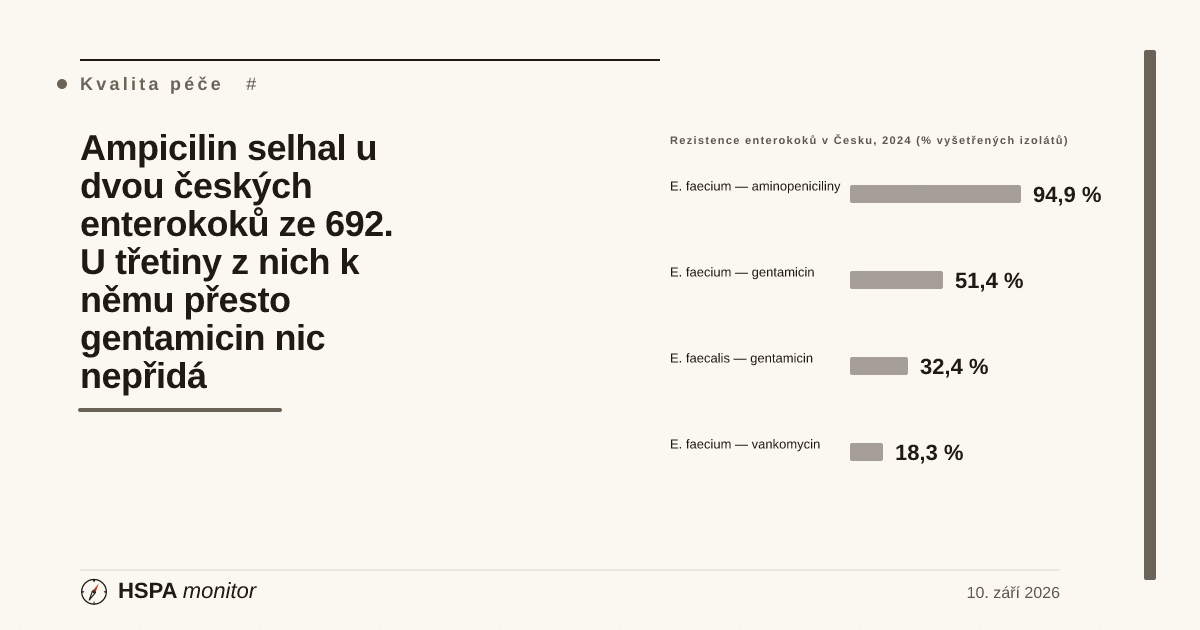
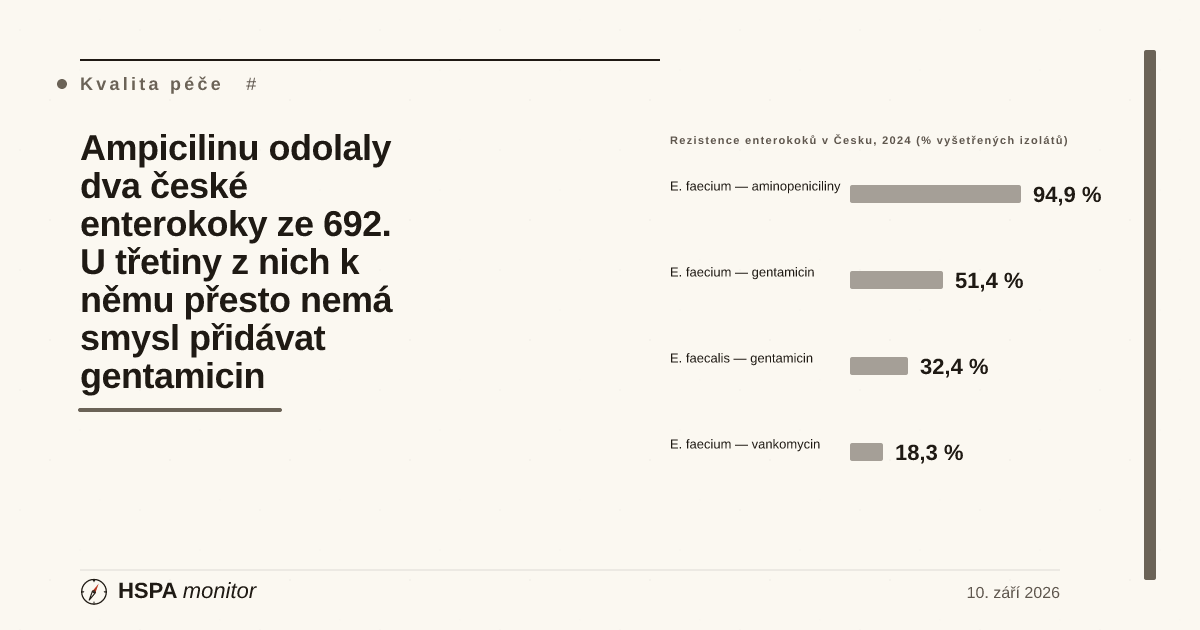
fix(clanky): opravy po recenzi Codexu — in vitro vs. klinický endpoint, rozsah evidence, meze odvozování (#1187)
CODEX REVIEW (PR #1187), pět nálezů (3× P1, 2× P2), všechny přijaty.

(P1) EARS-Net zaznamenává výsledky vyšetření citlivosti in vitro, ne to, čím
byl pacient léčen a s jakým výsledkem. Titulek „Ampicilin selhal u dvou českých
enterokoků ze 692“ podával rezistentní izoláty jako selhání léčby, a měnil tím
sledovaný endpoint. Přepsán na „Ampicilinu odolaly dva české enterokoky ze
692…“; táž záměna odstraněna z counteru, z tabulky a z odstavce o dvou druzích.
Slovo „selhání“ zůstává jen tam, kde je skutečným endpointem citované klinické
studie.

(P1) Sekce o náhradě gentamicinu ceftriaxonem platila jako odpověď na jakýkoli
pozitivní screening, ačkoli všechny tři citované práce se týkají výhradně
infekční endokarditidy E. faecalis, zatímco surveillance sbírá všechny invazivní
izoláty z krve a mozkomíšního moku. Doplněn úvodní odstavec, který rozsah
evidence výslovně omezuje a říká, že pozitivní screening sám o sobě indikací
k záměně není; nadpis změněn na „Co o náhradě gentamicinu ví literatura — a u
jaké diagnózy“.

(P1) Z horní meze 675/692 nelze usuzovat na české pokrytí testováním —
jmenovatel může být větší a pokrytí i pod unijními 49,9 %. Ověřeno, že AER 2024
počty HLÁŠENÝCH izolátů po zemích neuvádí (rozpad je jen v samostatných Country
summaries; tabulky 10–16 jsou souhrny za EU/EHP), takže se údaj dohledat nedá.
Tvrzení o pilnosti českých laboratoří i formulace „české číslo stojí skoro na
všech izolátech“ odstraněna a nahrazena konstatováním, že pokrytí určit nelze.
[…]

Changed region(s): [[0.0617, 0.4524, 0.3392, 0.6333], [0.0925, 0.2111, 0.3392, 0.3921]]

diff --git a/05_M1_Starter/clanek-enterokoky-gentamicin-rezistence.html b/05_M1_Starter/clanek-enterokoky-gentamicin-rezistence.html
@@ -3,12 +3,12 @@
 <head>
 <meta charset="UTF-8">
 <meta name="viewport" content="width=device-width, initial-scale=1.0">
-<title>Ampicilin selhal u dvou českých enterokoků ze 692. U třetiny z nich k němu přesto gentamicin nic nepřidá · HSPA Monitor</title>
+<title>Ampicilinu odolaly dva české enterokoky ze 692. U třetiny z nich k němu přesto nemá smysl přidávat gentamicin · HSPA Monitor</title>
 <meta name="description" content="Vysoká rezistence ke gentamicinu neměří účinnost léku — je to screeningový test, který podle EUCAST říká, jestli se aminoglykosid spojí s ampicilinem do synergie. V Česku vyšel pozitivně u 219 z 675 invazivních izolátů Enterococcus faecalis (32,4 %, ECDC EARS-Net 2024) proti unijnímu průměru 22,6 %.">
 <meta name="robots" content="noindex, follow">
 <meta property="og:type" content="article">
-<meta property="og:title" content="Ampicilin selhal u dvou českých enterokoků ze 692. U třetiny z nich k němu přesto gentamicin nic nepřidá">
-<meta property="og:description" content="Vysoká rezistence ke gentamicinu je screeningový test na synergii, ne údaj o účinnosti léku. V Česku 32,4 % u E. faecalis proti unijnímu průměru 22,6 % — a odstup se za pět let rozevřel z 1,2 na 9,8 bodu.">
+<meta property="og:title" content="Ampicilinu odolaly dva české enterokoky ze 692. U třetiny z nich k němu přesto nemá smysl přidávat gentamicin">
+<meta property="og:description" content="Vysoká rezistence ke gentamicinu je screeningový test na synergii, ne údaj o účinnosti léku. V Česku 32,4 % u E. faecalis proti unijnímu průměru 22,6 % — evropský průměr přitom významně klesá, česká řada kolísá bez směru.">
 <meta property="og:locale" content="cs_CZ">
 <meta property="article:published_time" content="2026-09-10">
 <meta property="article:section" content="Kvalita péče">
@@ -22,6 +22,7 @@
     primary_sources_count: 8
     visual_elements_count: 6
     audit_pass: "2026-09-10 nezávislý průchod (fáze 5). Všech 48 číselných tvrzení dohledáno zpět k primárnímu zdroji: šest českých podílů proti čitateli i jmenovateli z ECDC Atlas, deset hodnot obou pětiletých řad, pět rozdílových hodnot přepočítáno, unijní hodnoty a rozpětí zemí proti tab. 9b, hodnoty z evidence proti abstraktům ověřeným v PubMed. Externí odkazy: 5 z 7 vrací HTTP 200; dva DOI odkazy na Clinical Infectious Diseases (10.1093/cid/cit052 a 10.1093/cid/ciae379) se korektně přesměrují (HTTP 302), ale cílový academic.oup.com odpovídá strojovému dotazu 403 — nejde o mrtvý odkaz, nýbrž o blokaci robotů, a odkazy byly proto v seznamu zdrojů přesměrovány na permalinky PubMed (DOI zůstává v citaci). Opraveno 5 nálezů: (1) tvrzení 'vyšetřovalo nejméně 97,5 %' mělo obrácený směr — 675/692 je HORNÍ odhad podílu vyšetřených, protože Atlas nevede počet hlášených izolátů, přeformulováno včetně vysvětlení, proč to není přesná obdoba unijních 49,9 %; (2) věta 'rozdíl u gentamicinu je zčásti rozdíl v pilnosti laboratoří' tvrdila směr zkreslení, který z dat neplyne — nahrazena explicitním konstatováním, že směr určit nelze; (3) tvrzení, že WHO nevede E. faecalis na seznamu prioritních patogenů, bylo neověřitelné tvrzení o absenci — nahrazeno doslovnou citací věty o E. faecium z AER 2024 a konstatováním, že u E. faecalis obdobná věta ve zprávě není; (4) v leadu byla nedoložená klinická generalizace o nejčastějších zdrojích enterokokové bakteriémie — odstraněna a nahrazena doslovnou citací AER 2024 o vnitřní rezistenci enterokoků; (5) mechanistické vysvětlení synergie ('naruší buněčnou stěnu a aminoglykosid se dostane dovnitř') nebylo doloženo primárním zdrojem — přepsáno na podmínku, kterou uvádí sama EUCAST, včetně upozornění, že EUCAST mluví o 'likely', ne o jistotě. Zkontrolováno, že čtyři ze šesti enterokokových indikátorů byly před tímto článkem skutečně sirotci (linked_indicators napříč 285 články)."
+    codex_2026-09-10: "Recenze Codexu k PR #1187, pět nálezů (3× P1, 2× P2), VŠECHNY PŘIJATY a opraveny. (P1) EARS-Net zaznamenává citlivost in vitro, ne klinický výsledek — titulek 'Ampicilin selhal u dvou enterokoků' podával rezistentní izoláty jako selhání léčby a měnil tím sledovaný endpoint. Titulek přepsán na 'Ampicilinu odolaly dva české enterokoky ze 692…' a stejná záměna odstraněna i v counteru, v tabulce a v odstavci o dvou druzích; slovo 'selhání' zůstává jen tam, kde je skutečným endpointem citované klinické studie. (P1) Sekce o náhradě gentamicinu ceftriaxonem platila jako odpověď na jakýkoli pozitivní screening, ačkoli všechny tři citované práce se týkají výhradně infekční endokarditidy E. faecalis, zatímco surveillance sbírá všechny invazivní izoláty. Doplněn úvodní odstavec, který rozsah evidence výslovně omezuje a říká, že pozitivní screening sám o sobě indikací k záměně není; nadpis sekce změněn na 'Co o náhradě gentamicinu ví literatura — a u jaké diagnózy'. (P1) Z horní meze 675/692 nelze usuzovat na české pokrytí testováním — jmenovatel může být větší a pokrytí i pod unijními 49,9 %. Ověřeno, že AER 2024 počty HLÁŠENÝCH izolátů po zemích neuvádí (rozpad je jen v samostatných Country summaries, tabulky 10–16 jsou souhrny za EU/EHP), takže se údaj dohledat nedá. Tvrzení o pilnosti českých laboratoří i formulace 'české číslo stojí skoro na všech izolátech' odstraněna a nahrazena explicitním konstatováním, že české pokrytí určit nelze. (P2) Vyloučení unijní hodnoty z intervalu spolehlivosti kolem českého podílu za rok 2024 dokládá jen jednoletý rozdíl, ne změnu v čase; rozdílová řada navíc kolísá (1,2 · 9,6 · 5,5 · 2,1 · 9,8). Tvrzení o rozevírání řad odstraněno z titulku sekce, z decku, z og:description i z těla článku a nahrazeno novým caveat callloutem, který vysvětluje, proč se srovnání krajních let na trend nedá použít. (P2) Věta o tom, že nižší frekvence hemokultur přivádí do vzorku pacienty s 'z principu vyšší' rezistencí, přisuzovala výběrovému zkreslení směr, který z té statistiky neplyne — přepsáno na nejistotu bez směru. Souhrnná poznámka pod zdroji rozšířena o všech pět bodů."
     notes: "Vytvořeno 10. 9. 2026 z evergreen backlogu (položka enterokoky-gentamicin-rezistence, priorita 18) — kadenční pojistka vynutila EVERGREEN-WRITE (3 dny od posledního ARTICLE/EVERGREEN-WRITE). Centrální KPI: vysoká rezistence E. faecalis ke gentamicinu 32,4 % (219/675), ČR 2024, ECDC Atlas measureId 1146465/1146466/1146467, geoCode CZ, staženo 10. 9. 2026. Bench: populačně vážený průměr EU/EHP 22,6 % (n=18 260), ECDC AER 2024 tab. 9b + doslovná věta v próze kapitoly E. faecalis. Všech šest measure ID nezávisle ověřeno proti metadatovému endpointu GetIndicatorMeasuresForHealthTopicAndDataset (152 measures) a všech šest podílů zkontrolováno proti čitateli a jmenovateli na plnou přesnost. Mechanismus doložen DOSLOVA z EUCAST Breakpoint tables v. 16.1 (platnost od 24. 6. 2026), kapitola Enterococcus spp., pozn. 1, 2/A a 3/B — ne parafrází guideline. Evidence o náhradě gentamicinu: Fernández-Hidalgo 2013 (PMID 23392394), Prosty 2024 metaanalýza (PMID 39041860), Mirna 2021 metaanalýza (PMID 34751788), všechny ověřeny v PubMed 10. 9. 2026 včetně typu publikace; Consensus použit jako vyhledávač, převaha evidence souhlasí. Datový rámec: discovery/data-frame-enterokoky-gentamicin-rezistence.md."
     limits: "SEBEOMEZENÍ, která nesmí zmizet při revizi: (1) Z doporučených postupů ESC 2023 (PMID 37622656) se NECITUJE NIC — plný text vrací z tohoto prostředí HTTP 403 a abstrakt v PubMed není; charakteristika 'rovnocenné doporučení třídy IB' je označena jako citace z abstraktu metaanalýzy Mirna 2021 a týká se doporučení platných v roce 2021. (2) Pro E. faecium/gentamicin a pro E. faecalis/vankomycin a /aminopeniciliny ECDC v AER 2024 unijní průměr NEPUBLIKUJE — nedopočítávat. (3) Za Česko se NEUVÁDÍ podíl izolátů rezistentních ke všem třem skupinám naráz; ECDC ho publikuje jen za EU/EHP (tab. 16) a z dílčích podílů se počítat nesmí. (4) Trend za ČR se netvrdí — česká řada kolísá a ECDC pro jednotlivé země trend u téhle metriky v AER nepublikuje. (5) U VRE se NETVRDÍ, že je Česko nad evropským průměrem: 95% CI 14,6–22,0 % benchmark 16,5 % zahrnuje. (6) Článek nedává doporučení léčby."
 -->
@@ -57,9 +58,9 @@
         <span class="article-tag">Kvalita péče</span>
         <span class="article-tag article-tag-muted">antibiotická rezistence · enterokoky · endokarditida · EARS-Net · EUCAST</span>
       </div>
-      <h1 class="article-title">Ampicilin selhal u dvou českých enterokoků ze 692. U třetiny z nich k němu přesto gentamicin nic nepřidá</h1>
+      <h1 class="article-title">Ampicilinu odolaly dva české enterokoky ze 692. U třetiny z nich k němu přesto nemá smysl přidávat gentamicin</h1>
       <p class="article-deck">
-        „Vysoká rezistence ke gentamicinu“ nevypovídá o tom, jestli gentamicin zabírá — enterokoky jsou na aminoglykosidy odolné vždycky. Je to <strong>screeningový test</strong>, který podle metodiky EUCAST říká jedinou věc: jestli se aminoglykosid spojí s penicilinovým antibiotikem do <em>synergie</em>, nebo ne. V Česku vyšel za rok 2024 pozitivně u <strong>219 z 675</strong> invazivních izolátů <em>Enterococcus faecalis</em>, tedy u <strong>32,4 %</strong>, zatímco unijní populačně vážený průměr je <strong>22,6 %</strong> (ECDC EARS-Net). Evropské číslo přitom od roku 2020 statisticky významně klesá a české nikam nesměřuje — odstup se za pět let rozevřel z 1,2 na 9,8 bodu. Druhý enterokok, <em>E. faecium</em>, vypadá v datech přesně opačně.
+        „Vysoká rezistence ke gentamicinu“ nevypovídá o tom, jestli gentamicin zabírá — enterokoky jsou na aminoglykosidy odolné vždycky. Je to <strong>screeningový test</strong>, který podle metodiky EUCAST říká jedinou věc: jestli se aminoglykosid spojí s penicilinovým antibiotikem do <em>synergie</em>, nebo ne. V Česku vyšel za rok 2024 pozitivně u <strong>219 z 675</strong> invazivních izolátů <em>Enterococcus faecalis</em>, tedy u <strong>32,4 %</strong>, zatímco unijní populačně vážený průměr je <strong>22,6 %</strong> (ECDC EARS-Net). Evropské číslo přitom od roku 2020 statisticky významně klesá, česká řada kolísá bez zjevného směru a v roce 2024 leží 9,8 bodu nad unijním průměrem. Druhý enterokok, <em>E. faecium</em>, vypadá v datech přesně opačně.
       </p>
       <div class="article-meta">
         <span class="article-meta-date">10. září 2026</span>
@@ -92,7 +93,7 @@
           <div class="av-counter-block av-counter-block-good">
             <span class="av-counter" data-value="0.3" data-decimals="1" data-suffix=" %">0,3 %</span>
             <span class="av-counter-label"><em>E. faecalis</em> — rezistence k aminopenicilinům</span>
-            <span class="av-counter-foot">selhaly u 2 izolátů ze 692; samotný ampicilin tedy funguje skoro vždy</span>
+            <span class="av-counter-foot">rezistentní byly 2 izoláty ze 692; drtivá většina zůstává in vitro citlivá</span>
           </div>
           <div class="av-counter-block av-counter-block-bad">
             <span class="av-counter" data-value="94.9" data-decimals="1" data-suffix=" %">94,9 %</span>
@@ -142,7 +143,7 @@
               <tr><td>vankomycin</td><td class="av-num">0,3 %</td><td class="av-num">2 / 692</td><td>záloha zůstává otevřená</td></tr>
               <tr class="av-row-highlight"><td>gentamicin (vysoká hladina)</td><td class="av-num"><strong>32,4 %</strong></td><td class="av-num">219 / 675</td><td>u třetiny izolátů nebude kombinace synergická</td></tr>
               <tr><th scope="row" rowspan="3"><em>E. faecium</em></th><td>aminopeniciliny</td><td class="av-num">94,9 %</td><td class="av-num">394 / 415</td><td>ampicilin prakticky nepoužitelný</td></tr>
-              <tr><td>vankomycin (VRE)</td><td class="av-num">18,3 %</td><td class="av-num">76 / 415</td><td>záloha selhává u každého pátého izolátu</td></tr>
+              <tr><td>vankomycin (VRE)</td><td class="av-num">18,3 %</td><td class="av-num">76 / 415</td><td>záloha je neúčinná u téměř každého pátého izolátu</td></tr>
               <tr><td>gentamicin (vysoká hladina)</td><td class="av-num">51,4 %</td><td class="av-num">208 / 405</td><td>u poloviny izolátů kombinace nepomůže</td></tr>
             </tbody>
           </table>
@@ -164,7 +165,7 @@
       </figure>
 
       <p>
-        U <em>E. faecalis</em> tedy platí, že jádro léčby stojí pevně: ampicilin selhal u dvou izolátů ze 692 a vankomycin rovněž u dvou. Co vypadlo, je <strong>posila</strong>. U <em>E. faecium</em> je to naopak — vypadlo jádro. Ampicilin je u něj v Česku prakticky nepoužitelný (94,9 %), takže se léčba přesouvá na vankomycin, a ten selhává u 18,3 % izolátů. Právě proto ECDC ve výroční zprávě u <em>E. faecium</em> připomíná, že „<em>WHO has listed vancomycin-resistant E. faecium as a pathogen of high priority in the global bacterial pathogen priority list</em>“ — u <em>E. faecalis</em> žádnou takovou větu neuvádí.
+        U <em>E. faecalis</em> tedy platí, že jádro léčby stojí pevně: aminopenicilinům odolaly dva izoláty ze 692 a vankomycinu rovněž dva. Co vypadlo, je <strong>posila</strong>. U <em>E. faecium</em> je to naopak — vypadlo jádro. Aminopenicilinům odolává 94,9 % izolátů, takže na ně jako na lék volby spoléhat nelze a hlavní zálohou zůstává vankomycin — a ten je neúčinný u 18,3 % izolátů. Právě proto ECDC ve výroční zprávě u <em>E. faecium</em> připomíná, že „<em>WHO has listed vancomycin-resistant E. faecium as a pathogen of high priority in the global bacterial pathogen priority list</em>“ — u <em>E. faecalis</em> žádnou takovou větu neuvádí.
       </p>
 
       <aside class="av-aside">
@@ -208,15 +209,22 @@
       </figure>
 
       <p>
-        Z těch dvou řádků plyne jedna věc jasně a jedna vůbec ne. Jasná je ta první: <strong>u <em>E. faecalis</em> se česká a evropská řada rozevírají.</strong> Evropský průměr klesl mezi lety 2020 a 2024 z 29,0 na 22,6 %, tedy o 6,4 bodu, a ECDC u něj potvrzuje statisticky významný klesající trend. Česká hodnota ve stejném období nikam nesměřuje — kolísá mezi 26,4 a 38,5 % — takže odstup narostl z 1,2 bodu v roce 2020 na 9,8 bodu v roce 2024. Není to jen náhodné rozházení: devadesátipětiprocentní interval spolehlivosti kolem českých 32,4 % sahá od 28,9 do 36,0 % a evropskou hodnotu 22,6 % nezahrnuje.
+        Z těch dvou řádků plyne jedna věc jasně a jedna vůbec ne. Jasné je <strong>postavení Česka v roce 2024</strong>: u <em>E. faecalis</em> leží česká hodnota 9,8 bodu nad unijním průměrem a devadesátipětiprocentní interval spolehlivosti kolem českých 32,4 % (28,9 až 36,0 %) evropskou hodnotu 22,6 % nezahrnuje. Jasné je i to, že <strong>evropský průměr klesá</strong> — z 29,0 na 22,6 % mezi lety 2020 a 2024, se statisticky významným trendem, který potvrzuje ECDC. A jasné je, že <strong>česká řada nikam nesměřuje</strong>: kolísá mezi 26,4 a 38,5 %.
       </p>
+      <div class="article-callout-caveat" role="note">
+        <strong>Co z toho neplyne: že se ty dvě řady rozevírají.</strong>
+        Bylo by lákavé postavit vedle sebe rozdíl 1,2 bodu z roku 2020 a 9,8 bodu z roku 2024 a mluvit o rozevírání nůžek. Rozdílový řádek v tabulce ale ukazuje, že mezitím byl 9,6 bodu (2021), 5,5 (2022) a 2,1 (2023) — kolísá stejně jako česká řada sama. Srovnání dvou krajních let takovou houpačku nepřekoná a interval spolehlivosti kolem hodnoty za rok 2024 <em>neříká nic o změně v čase</em>: dokládá jen jednoletý rozdíl. Tvrzení o trendu by vyžadovalo test na celé řadě, který ECDC za jednotlivé země nepublikuje a který redakce sama nedělá. <strong>Článek proto o rozevírání nemluví</strong> — jen o tom, že evropský průměr prokazatelně klesá, zatímco česká hodnota za rok 2024 leží nad ním.
+      </div>
       <p>
         Nejasné je naopak všechno kolem <strong>VRE</strong>. České číslo 18,3 % je sice nad unijním průměrem 16,5 %, jenže interval spolehlivosti kolem něj sahá od 14,6 do 22,0 % a evropskou hodnotu <em>zahrnuje</em>. Statisticky vzato tedy Česko od průměru odlišit nelze a tenhle článek netvrdí, že je na tom hůř. Je to zároveň důvod, proč mají všech šest enterokokových indikátorů v datovém kontraktu HSPA Monitoru signál <em>neutrální</em> a prázdný benchmark: při jmenovatelích v řádu stovek izolátů by barevný semafor tvrdil víc, než data unesou.
       </p>
 
-      <h3>Co dělat, když synergie chybí</h3>
+      <h3>Co o náhradě gentamicinu ví literatura — a u jaké diagnózy</h3>
       <p>
-        Tady se dostáváme k otázce, kvůli které se ten test vůbec provádí. Pokud u <em>E. faecalis</em> vyjde gentamicinový screening pozitivně, co se dá dělat místo toho? Odpověď je v recenzované literatuře poměrně jednotná a je stará přes deset let: nahradit aminoglykosid <strong>druhým betalaktamem</strong>, konkrétně ceftriaxonem.
+        Tady se dostáváme k otázce, kvůli které se ten test vůbec provádí. Nejdřív ale nutné vymezení, bez kterého by následující odstavce byly zavádějící: <strong>publikovaná evidence, kterou tenhle článek cituje, se týká výhradně infekční endokarditidy způsobené <em>E. faecalis</em></strong>. Surveillance přitom sbírá všechny invazivní izoláty z krve a mozkomíšního moku, tedy i katétrové sepse, infekce po břišních operacích a další stavy, kde se kombinační léčba řídí jinými úvahami a kde srovnávací studie tohoto typu nejsou. Pozitivní screening u izolátu <strong>není</strong> sám o sobě indikací k záměně gentamicinu za ceftriaxon; co následuje, platí pro endokarditidu, ne pro každý pozitivní výsledek.
+      </p>
+      <p>
+        Pro tu diagnózu je odpověď v recenzované literatuře poměrně jednotná a stará přes deset let: nahradit aminoglykosid <strong>druhým betalaktamem</strong>, konkrétně ceftriaxonem.
       </p>
       <p>
         Podle záznamů v PubMed publikovala multicentrická kohorta ze sedmnácti španělských a jedné italské nemocnice (<em>Fernández-Hidalgo N. et al.</em>, <em>Clinical Infectious Diseases</em>, 2013) srovnání 159 pacientů léčených ampicilinem s ceftriaxonem a 87 pacientů léčených ampicilinem s gentamicinem. Mezi skupinami nebyl rozdíl v úmrtnosti během léčby (22 % vs 21 %) ani po třech měsících (8 % vs 7 %), v selhání léčby (1 % vs 2 %) ani v relapsech (3 % vs 4 %). Rozdíl byl jinde: přerušení léčby kvůli nežádoucím účinkům postihlo <strong>25 % pacientů na gentamicinu proti 1 % na ceftriaxonu</strong>, především kvůli nově vzniklému renálnímu selhání (23 % vs 0 %). Závěr práce zní doslova, že kombinaci s ceftriaxonem lze použít „<em>regardless of the high-level aminoglycoside resistance status of E. faecalis</em>“ — tedy bez ohledu na výsledek právě toho testu, o kterém je tenhle článek.
@@ -232,13 +240,16 @@
 
       <h3>Kdo kolik testuje</h3>
       <p>
-        Zbývá otázka, jestli se ta česká a evropská čísla vůbec smějí postavit vedle sebe. Odpověď je „ano, ale s výhradou, kterou napsalo samo ECDC“ — a ta výhrada tentokrát nehraje proti Česku.
+        Zbývá otázka, jestli se ta česká a evropská čísla vůbec smějí postavit vedle sebe. Odpověď je „ano, ale se třemi výhradami“ — a ani jedna z nich není ve prospěch žádné strany.
       </p>
       <p>
-        <strong>Za prvé, unijní průměr stojí na polovině izolátů.</strong> Třicet zemí nahlásilo za rok 2024 celkem 36 610 invazivních izolátů <em>E. faecalis</em>, ale výsledek citlivosti ke gentamicinu mělo jen <strong>18 260 z nich, tedy 49,9 %</strong>. Zpráva k tomu dodává: „<em>for each year more than one third of the countries reported that susceptibility to gentamicin was tested for &lt;90% of isolates</em>“. Česko naproti tomu hlásilo výsledek gentamicinu u 675 izolátů proti 692, u kterých hlásilo vankomycin a aminopeniciliny. Ty dva poměry nejsou stavěné stejně — Atlas nevede počet <em>hlášených</em> izolátů, jen <em>vyšetřených</em>, takže 675 ze 692 je <strong>horní odhad</strong> českého podílu vyšetřených, ne přesná obdoba unijních 49,9 %. I tak je odstup od poloviny řádový: české laboratoře gentamicin u enterokoků testují běžně, unijní průměr stojí na vzorku, kde se netestoval u každého druhého izolátu. Pro srovnání: u vankomycinu a <em>E. faecium</em>, kde unijní pokrytí testováním dosahuje 98,3 %, je česká hodnota od evropského průměru statisticky neodlišitelná. Kterým směrem chybějící polovina izolátů unijní gentamicinový průměr posouvá, se ale z dat vyčíst <strong>nedá</strong> — ECDC to neuvádí a výběrové testování může působit oběma směry. Jistá je jen ta asymetrie: české číslo stojí skoro na všech izolátech, evropské na polovině.
+        <strong>Za prvé, unijní průměr stojí na polovině izolátů.</strong> Třicet zemí nahlásilo za rok 2024 celkem 36 610 invazivních izolátů <em>E. faecalis</em>, ale výsledek citlivosti ke gentamicinu mělo jen <strong>18 260 z nich, tedy 49,9 %</strong>. Zpráva k tomu dodává: „<em>for each year more than one third of the countries reported that susceptibility to gentamicin was tested for &lt;90% of isolates</em>“. Kterým směrem chybějící polovina izolátů unijní průměr posouvá, se z dat vyčíst <strong>nedá</strong> — ECDC to neuvádí a výběrové testování může působit oběma směry.
       </p>
       <p>
-        <strong>Za druhé, Česko odebírá málo hemokultur.</strong> Podle metodické tabulky výroční zprávy připadá v nemocnicích obsluhovaných českými laboratořemi <strong>23,4 setu hemokultur na 1 000 pacientodnů</strong> — šesté nejnižší číslo z 26 zemí, které údaj vykázaly, zatímco medián je 58,6 a Dánsko hlásí 265,8. Co se neodebere, to se nezachytí. Na <em>podíly</em> rezistence to nemá přímý vliv, ale znamená to, že do vzorku se dostávají spíš těžší a nemocničně léčení pacienti, u kterých je rezistence z principu vyšší.
+        <strong>A za české pokrytí testováním ručit nelze vůbec.</strong> Nabízí se poměr 675 ku 692 — tolik izolátů mělo výsledek gentamicinu, respektive vankomycinu a aminopenicilinů — a číst ho jako „Česko vyšetřuje 97,5 % izolátů“. Nejde to. Atlas vede jen počty <em>vyšetřených</em> izolátů, ne počet <em>hlášených</em>; kolik jich české laboratoře do EARS-Net za rok 2024 poslaly celkem, výroční zpráva po zemích neuvádí (rozpad po zemích je jen v samostatných „Country summaries“, ne v hlavní zprávě). Skutečný jmenovatel tedy může být větší než 692 a české pokrytí odpovídajícím způsobem nižší — teoreticky i na úrovni unijních 49,9 % nebo pod ní. Poměr 675 ku 692 je pouze <strong>horní mez</strong> a s unijním číslem, které je počítáno z hlášených izolátů, se nedá poměřovat. Článek proto o pilnosti českých laboratoří netvrdí nic.
+      </p>
+      <p>
+        <strong>Za druhé, Česko odebírá málo hemokultur.</strong> Podle metodické tabulky výroční zprávy připadá v nemocnicích obsluhovaných českými laboratořemi <strong>23,4 setu hemokultur na 1 000 pacientodnů</strong> — šesté nejnižší číslo z 26 zemí, které údaj vykázaly, zatímco medián je 58,6 a Dánsko hlásí 265,8. Co se neodebere, to se nezachytí. Na <em>podíly</em> rezistence to nemá přímý vliv, ale nižší frekvence odběrů může měnit skladbu zachycených případů. <strong>Jakým směrem, ta statistika sama neurčuje</strong> — k tomu by byla potřeba data o tom, u kterých pacientů se v Česku hemokultura odebírá a jak se u nich rezistence liší. Zůstává to tedy jako nejistota, ne jako známý posun nahoru nebo dolů.
       </p>
       <p>
         <strong>Za třetí, pokrytí a reprezentativnost.</strong> České laboratoře hlásící do EARS-Net pokrývají podle odhadu ECDC 70 % populace; geografická, nemocniční i izolátová reprezentativnost je hodnocena stupněm <em>High</em> ve všech třech kritériích. Vzorek je tedy neúplný spíš objemem než složením.
@@ -258,7 +269,7 @@
         <strong>Druhá je testování streptomycinu.</strong> EUCAST výslovně uvádí, že izolát s pozitivním gentamicinovým screeningem může se streptomycinem synergii ještě vykazovat a že se to dá otestovat samostatně. Kolik českých laboratoří to u pozitivních izolátů dělá, se z EARS-Net zjistit nedá — síť streptomycin nesbírá. Je to otázka, na kterou by odpověď měl mít národní antibiotický program, ne evropská databáze.
       </p>
       <p>
-        <strong>A třetí je zařazení do cílů.</strong> Tři evropské cíle proti rezistenci do roku 2030, které Česko sleduje, se týkají MRSA, <em>E. coli</em> rezistentní k cefalosporinům třetí generace a karbapenem-rezistentní klebsielly. Enterokoky mezi nimi nejsou. To není chyba — cíle vybírala Rada EU podle jiných kritérií — ale znamená to, že jediné číslo, které o českých enterokocích systematicky vzniká, nikdo doma nepoužívá k ničemu. Rozdíl 9,8 bodu proti evropskému průměru u metriky, která se v Evropě pátým rokem zlepšuje a v Česku ne, je přitom přesně ten typ nálezu, kvůli kterému se surveillance dělá.
+        <strong>A třetí je zařazení do cílů.</strong> Tři evropské cíle proti rezistenci do roku 2030, které Česko sleduje, se týkají MRSA, <em>E. coli</em> rezistentní k cefalosporinům třetí generace a karbapenem-rezistentní klebsielly. Enterokoky mezi nimi nejsou. To není chyba — cíle vybírala Rada EU podle jiných kritérií — ale znamená to, že jediné číslo, které o českých enterokocích systematicky vzniká, nikdo doma nepoužívá k ničemu. Rozdíl 9,8 bodu proti evropskému průměru za rok 2024 u metriky, jejíž evropská řada prokazatelně klesá, zatímco česká pátým rokem kolísá bez směru, je přitom přesně ten typ nálezu, kvůli kterému se surveillance dělá.
       </p>
 
     </div>
@@ -305,7 +316,7 @@
         </ul>
       </div>
       <p class="article-sources-disclaimer">
-        <strong>Pozn. k údajům:</strong> Vysoká („high-level“) rezistence ke gentamicinu je podle metodiky EUCAST <strong>screeningový test na přítomnost aminoglykosid-modifikujících enzymů</strong>, nikoli klinický breakpoint — neříká, že selže léčba, ale že kombinace betalaktamu či glykopeptidu s aminoglykosidem nebude synergická. Hodnoty této metriky se proto nesmějí porovnávat s podíly rezistence u jiných bakterií, které stojí na klinických breakpointech. EARS-Net zahrnuje výhradně invazivní izoláty z krve a mozkomíšního moku; nejde o obraz veškeré rezistence. <strong>Unijní referenční hodnota existuje jen u dvou ze šesti popisovaných metrik</strong> — u <em>E. faecalis</em> a gentamicinu a u <em>E. faecium</em> a vankomycinu; pro zbylé čtyři ECDC ve výroční zprávě za rok 2024 populačně vážený průměr nepublikuje a redakce si ho nedopočítává. Česká hodnota je prostý podíl rezistentních izolátů, unijní je populačně vážený průměr národních procent — konstrukce obou čísel se liší. Unijní průměr u gentamicinu je navíc zatížen neúplným testováním: výsledek mělo jen 49,9 % hlášených izolátů <em>E. faecalis</em> a podle ECDC více než třetina zemí každý rok vyšetřila méně než 90 % izolátů. Intervaly spolehlivosti uvedené v textu jsou <strong>redakční dopočet</strong> (normální aproximace binomického podílu z publikovaných čitatelů a jmenovatelů), nikoli hodnota publikovaná ECDC. Podíl izolátů rezistentních ke všem třem sledovaným skupinám naráz se v textu uvádí <strong>pouze za EU a EHP</strong>, protože ECDC ho za Česko nezveřejňuje a z dílčích podílů ho spočítat nelze. Trend za Česko se netvrdí — česká řada kolísá a ECDC hodnocení trendu za jednotlivé země u těchto metrik ve výroční zprávě neuvádí. U VRE článek <strong>netvrdí</strong>, že je Česko nad evropským průměrem: interval spolehlivosti 14,6–22,0 % hodnotu 16,5 % zahrnuje. Doporučené postupy ESC 2023 nejsou citovány vůbec — jejich plný text byl z prostředí redakce nedostupný (HTTP 403) a formulace o „rovnocenném doporučení třídy IB“ pochází z abstraktu metaanalýzy z roku 2021 a popisuje stav tehdejších doporučení.
+        <strong>Pozn. k údajům:</strong> Vysoká („high-level“) rezistence ke gentamicinu je podle metodiky EUCAST <strong>screeningový test na přítomnost aminoglykosid-modifikujících enzymů</strong>, nikoli klinický breakpoint — neříká, že selže léčba, ale že kombinace betalaktamu či glykopeptidu s aminoglykosidem nebude synergická. Hodnoty této metriky se proto nesmějí porovnávat s podíly rezistence u jiných bakterií, které stojí na klinických breakpointech. EARS-Net zahrnuje výhradně invazivní izoláty z krve a mozkomíšního moku; nejde o obraz veškeré rezistence. <strong>Unijní referenční hodnota existuje jen u dvou ze šesti popisovaných metrik</strong> — u <em>E. faecalis</em> a gentamicinu a u <em>E. faecium</em> a vankomycinu; pro zbylé čtyři ECDC ve výroční zprávě za rok 2024 populačně vážený průměr nepublikuje a redakce si ho nedopočítává. Česká hodnota je prostý podíl rezistentních izolátů, unijní je populačně vážený průměr národních procent — konstrukce obou čísel se liší. Unijní průměr u gentamicinu je navíc zatížen neúplným testováním: výsledek mělo jen 49,9 % hlášených izolátů <em>E. faecalis</em> a podle ECDC více než třetina zemí každý rok vyšetřila méně než 90 % izolátů. Intervaly spolehlivosti uvedené v textu jsou <strong>redakční dopočet</strong> (normální aproximace binomického podílu z publikovaných čitatelů a jmenovatelů), nikoli hodnota publikovaná ECDC; <strong>vypovídají výhradně o jednom roce a neříkají nic o změně v čase</strong> — článek proto netvrdí, že se česká a evropská řada rozevírají, i když krajní roky 2020 a 2024 tak vypadají (mezitím byl rozdíl 9,6 · 5,5 · 2,1 bodu). EARS-Net zaznamenává výsledky vyšetření citlivosti <strong>in vitro</strong>, ne to, čím byl pacient léčen a s jakým výsledkem; formulace typu „rezistentní izolát“ se proto nesmějí číst jako selhání léčby a článek je tak nepodává. <strong>České pokrytí testováním nelze z publikovaných dat určit</strong>: Atlas vede jen počty vyšetřených izolátů, ne hlášených, a hlavní část výroční zprávy počty hlášených izolátů po zemích neuvádí — poměr 675 ku 692 je proto pouhá horní mez a s unijními 49,9 % se poměřovat nedá. Nižší frekvence odběru hemokultur v Česku může měnit skladbu zachycených případů, ale <strong>směr toho posunu z téhle statistiky neplyne</strong> a článek mu žádný nepřisuzuje. Publikovaná evidence o náhradě gentamicinu ceftriaxonem, kterou článek cituje, se týká <strong>výhradně infekční endokarditidy způsobené <em>E. faecalis</em></strong>, zatímco surveillance sbírá všechny invazivní izoláty — pozitivní screening tedy sám o sobě není indikací k záměně a text to říká výslovně. Podíl izolátů rezistentních ke všem třem sledovaným skupinám naráz se v textu uvádí <strong>pouze za EU a EHP</strong>, protože ECDC ho za Česko nezveřejňuje a z dílčích podílů ho spočítat nelze. Trend za Česko se netvrdí — česká řada kolísá a ECDC hodnocení trendu za jednotlivé země u těchto metrik ve výroční zprávě neuvádí. U VRE článek <strong>netvrdí</strong>, že je Česko nad evropským průměrem: interval spolehlivosti 14,6–22,0 % hodnotu 16,5 % zahrnuje. Doporučené postupy ESC 2023 nejsou citovány vůbec — jejich plný text byl z prostředí redakce nedostupný (HTTP 403) a formulace o „rovnocenném doporučení třídy IB“ pochází z abstraktu metaanalýzy z roku 2021 a popisuje stav tehdejších doporučení.
       </p>
     </section>
 
